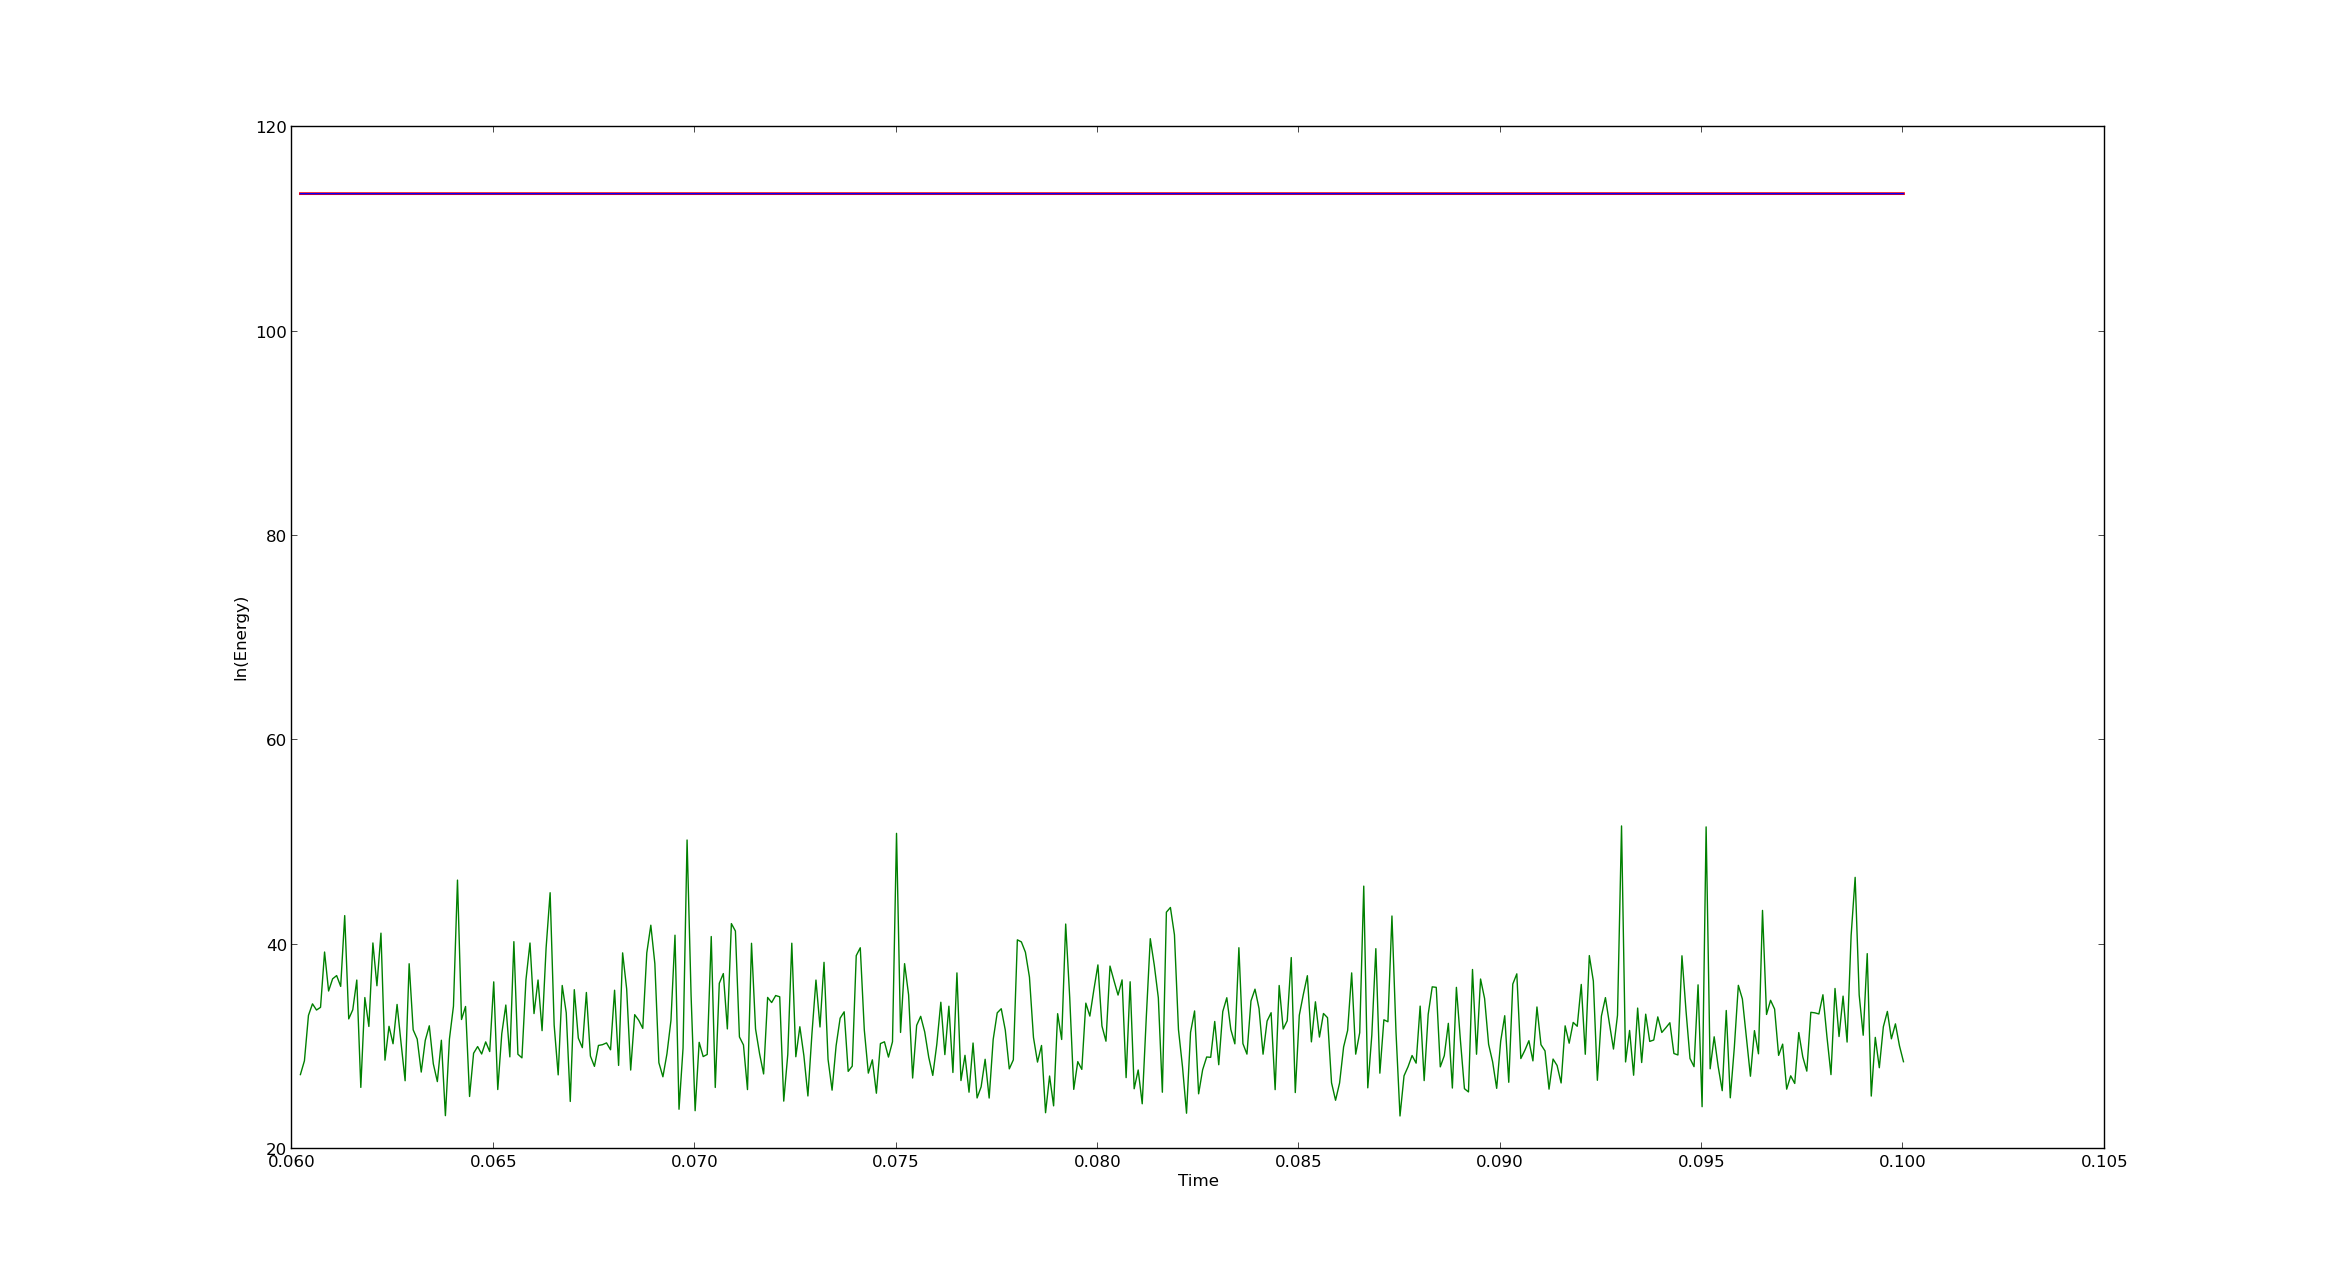
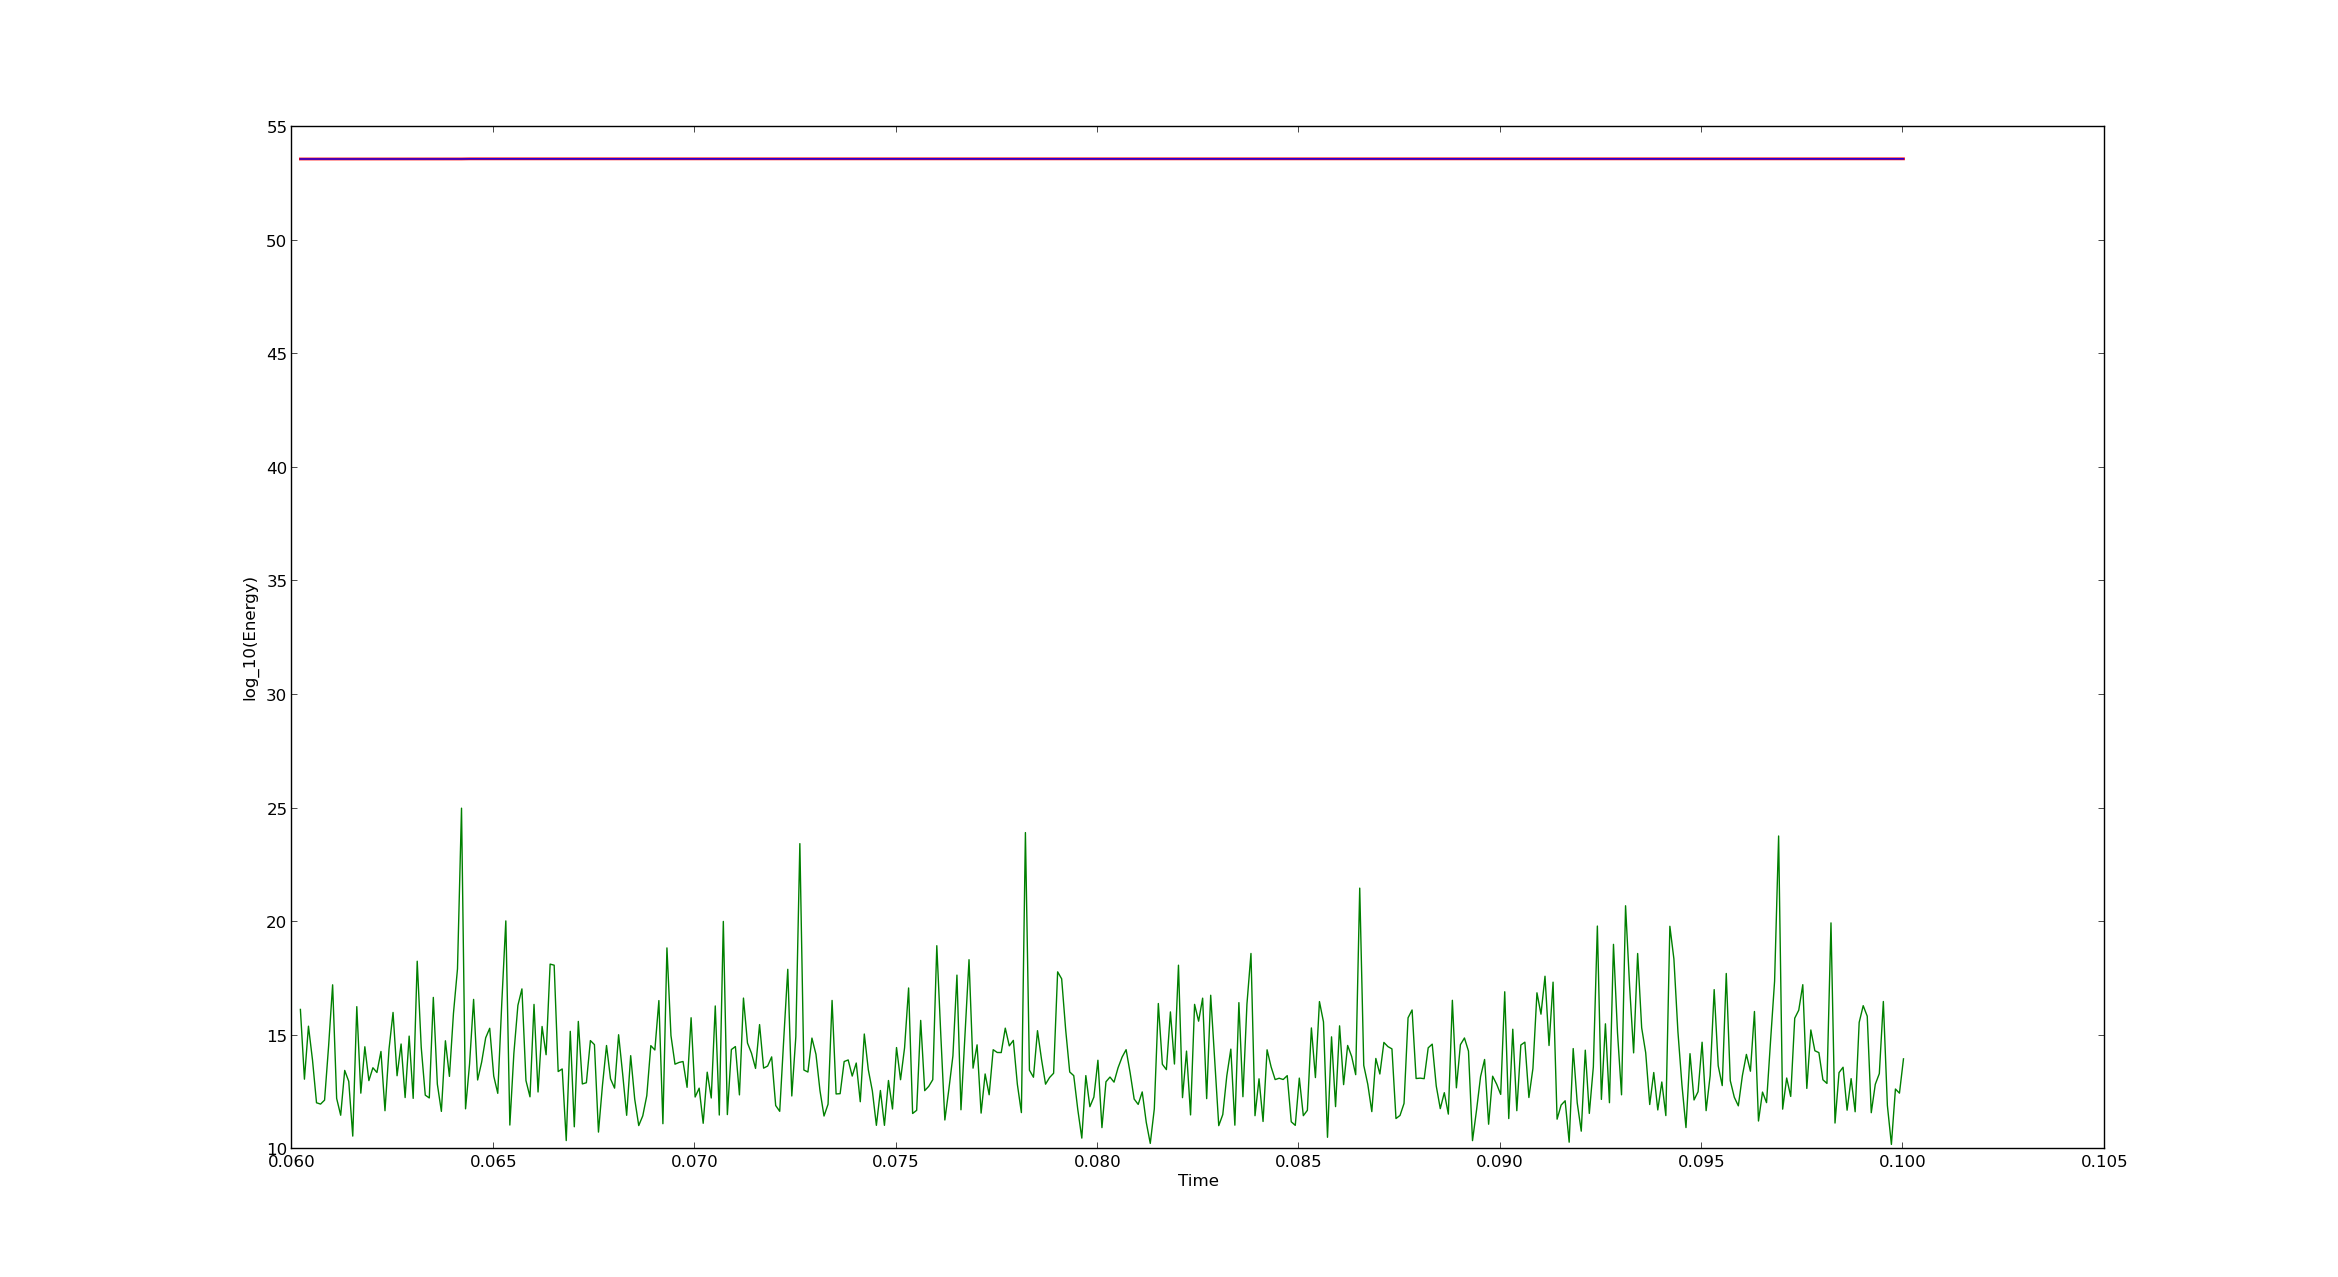
Energy plotting

Changed region(s): [[0.1249, 0.7024, 0.8118, 0.8857], [0.1249, 0.1222, 0.8118, 0.1527], [0.0937, 0.4581, 0.1249, 0.5497]]

diff --git a/test2/src/state.py b/test2/src/state.py
@@ -142,9 +142,9 @@ class BaseMDState():
             if (i > 0.6*math.ceil(self._T/self._dt)):
                 self._K = 0.5*np.sum(self._vel()*self._vel())
                 
-                self._U_store.append(math.log(self._U/self._N))
-                self._K_store.append(math.log(self._K/self._N))
-                self._Q_store.append(math.log((self._U + self._K)/self._N))
+                self._U_store.append(math.log(self._U/self._N,10))
+                self._K_store.append(math.log(self._K/self._N,10))
+                self._Q_store.append(math.log((self._U + self._K)/self._N,10))
                 self._T_store.append((i+1)*self._dt)
             
                 
@@ -337,7 +337,7 @@ class BaseMDState():
         ax2.plot(self._T_store,self._K_store,color='b')
         
         ax2.set_xlabel('Time')
-        ax2.set_ylabel('ln(Energy)')
+        ax2.set_ylabel('log_10(Energy)')
         
         plt.show()
         
